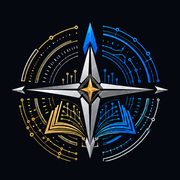
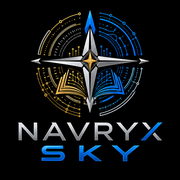
Єдине лого скрізь (іконки, заставка з анімацією, експорти), водяний знак на екрані й у PDF/відео

diff --git a/web/app.js b/web/app.js
@@ -1355,7 +1355,7 @@ setInterval(()=>{if(ws&&ws.readyState===1)ws.send('ping');},20000);
 document.addEventListener('visibilitychange',()=>{if(ws&&ws.readyState===1)ws.send(document.hidden?'hidden':'visible');});
 
 /* ---------- налаштування, теми, шари ---------- */
-const PREF=Object.assign({theme:'night',base:null,sound:false,ru:true,launch:true,zones:true},(()=>{try{return JSON.parse(localStorage.getItem('pref')||'{}');}catch(e){return {};}})());
+const PREF=Object.assign({theme:'night',base:null,sound:false,ru:true,launch:true,zones:true,wm:true},(()=>{try{return JSON.parse(localStorage.getItem('pref')||'{}');}catch(e){return {};}})());
 // темна тема за замовчуванням (02.11): збережене раніше «Авто» переводимо в «Ніч» один раз; свідомий вибір після цього не чіпаємо
 if(!PREF.darkV2){if(PREF.theme==='auto')PREF.theme='night';PREF.darkV2=1;try{localStorage.setItem('pref',JSON.stringify(PREF));}catch(e){}}
 const savePref=()=>{try{localStorage.setItem('pref',JSON.stringify(PREF));}catch(e){}};
@@ -1367,7 +1367,7 @@ function applyTheme(force){const th=effTheme();document.documentElement.dataset.
   const want=wantBase(th);if(force||want!==base)setBase(want);
   $('#st-theme-note').textContent=PREF.theme==='auto'?('Зараз: '+(th==='night'?'ніч':'день')+', перемикається само за сходом і заходом сонця над вашим домом.'):'';syncSettingsUI();}
 function syncSettingsUI(){document.querySelectorAll('.seg[data-pref]').forEach(g=>{const k=g.dataset.pref;const v=k==='mode'?(TAC?'tac':'norm'):k==='base'?base:k==='shelter'?String(SHELTER):PREF[k];g.querySelectorAll('button').forEach(b=>b.classList.toggle('on',b.dataset.v===String(v)));});
-  $('#st-3d').checked=tilt;$('#st-sys').checked=!!PREF.sys&&'Notification' in window&&Notification.permission==='granted';$('#st-ru').checked=!!PREF.ru;$('#st-launch').checked=!!PREF.launch;$('#st-zones').checked=!!PREF.zones;}
+  $('#st-3d').checked=tilt;$('#st-sys').checked=!!PREF.sys&&'Notification' in window&&Notification.permission==='granted';$('#st-ru').checked=!!PREF.ru;$('#st-launch').checked=!!PREF.launch;$('#st-zones').checked=!!PREF.zones;$('#st-wm').checked=PREF.wm!==false;document.body.classList.toggle('wm',PREF.wm!==false);}
 function applyLayers(){const vis=(ids,on)=>ids.forEach(i=>{if(map.getLayer(i))map.setLayoutProperty(i,'visibility',on?'visible':'none');});
   vis(['ru-glow','ru-dot','ru-t','hits'],PREF.ru);vis(['chains','lsites','lsites-t'],PREF.launch);vis(['zones','zones-t','avia','avia-z','avia-zl','avia-l'],PREF.zones);
   if(TAC)vis(['holo','holo-top','ra-glow'],false);
@@ -1472,6 +1472,7 @@ try{if(matchMedia('(display-mode: standalone)').matches||navigator.standalone)fe
 $('#st-ru').onchange=e=>{PREF.ru=e.target.checked;savePref();applyLayers();};
 $('#st-launch').onchange=e=>{PREF.launch=e.target.checked;savePref();applyLayers();};
 $('#st-zones').onchange=e=>{PREF.zones=e.target.checked;savePref();applyLayers();};
+$('#st-wm').onchange=e=>{PREF.wm=e.target.checked;savePref();syncSettingsUI();};
 $('#st-geo').onclick=()=>{$('#b-locate').click();};
 $('#st-pick').onclick=()=>{$('#settings').hidden=true;armHome();};
 $('#st-clear').onclick=()=>{if(FOLHOME)homeSaved=null;H0=null;localStorage.removeItem('H0');syncHome();toast('Дім прибрано');};

diff --git a/web/dexport.js b/web/dexport.js
@@ -59,13 +59,13 @@
 
   // спільне: шапка з лого
   function rr(g, x, y, w, h, r) { g.beginPath(); g.moveTo(x + r, y); g.arcTo(x + w, y, x + w, y + h, r); g.arcTo(x + w, y + h, x, y + h, r); g.arcTo(x, y + h, x, y, r); g.arcTo(x, y, x + w, y, r); g.closePath(); }
-  function brand(g, x, y, s) {// лого + NAVRYX SKY + слоган; s — висота лого
-    if (LOGO) g.drawImage(LOGO, x, y, s, s);
-    const tx = x + s + s * 0.18;
+  function brand(g, x, y, s) {// єдине лого (з назвою) + слоган; s — висота лого
+    if (LOGO) g.drawImage(LOGO, x, y, s * 1.3, s * 1.3);
     g.textAlign = 'left'; g.textBaseline = 'alphabetic';
-    g.font = '800 ' + Math.round(s * 0.36) + 'px ' + FONT; g.fillStyle = '#F2F5FA'; g.fillText('NAVRYX', tx, y + s * 0.5);
-    const w = g.measureText('NAVRYX ').width; g.fillStyle = BLUE; g.fillText('SKY', tx + w, y + s * 0.5);
-    g.font = '600 ' + Math.round(s * 0.17) + 'px ' + FONT; g.fillStyle = MUTE; g.fillText('Розумій, що відбувається в небі', tx, y + s * 0.8);
+    g.font = '600 ' + Math.round(s * 0.2) + 'px ' + FONT; g.fillStyle = MUTE; g.fillText('Розумій, що відбувається в небі', x + s * 1.45, y + s * 0.78);
+  }
+  function wmark(g, x, y, w, h) {// водяний знак на знімку мапи
+    if (!LOGO) return; const s = Math.round(Math.min(w, h) * 0.13); g.save(); g.globalAlpha = 0.6; g.drawImage(LOGO, x + 12, y + 12, s, s); g.restore();
   }
   function grad(g, x, y, w, h) { const l = g.createLinearGradient(x, 0, x + w, 0); l.addColorStop(0, GOLD); l.addColorStop(1, BLUE); g.fillStyle = l; g.fillRect(x, y, w, h); }
   function cover(g, src, x, y, w, h) {// map canvas → прямокутник з обрізанням по центру
@@ -97,7 +97,7 @@
       grad(g, M, 162, W - 2 * M, 3);
       // мапа
       const my = 190;
-      g.save(); rr(g, M, my, MW, MH, 22); g.clip(); cover(g, map.getCanvas(), M, my, MW, MH);
+      g.save(); rr(g, M, my, MW, MH, 22); g.clip(); cover(g, map.getCanvas(), M, my, MW, MH); wmark(g, M, my, MW, MH);
       g.fillStyle = 'rgba(0,0,0,.55)'; g.fillRect(M, my + MH - 30, MW, 30);
       g.font = '500 14px ' + FONT; g.fillStyle = 'rgba(255,255,255,.7)'; g.textAlign = 'left';
       g.fillText('© Esri, Maxar · © OpenStreetMap · OpenFreeMap · зона контролю: відкриті джерела', M + 14, my + MH - 10);
@@ -175,7 +175,7 @@
       const frame = (t) => {
         const f = Math.max(0, Math.min(1, (t - INTRO) / PLAY));
         g.fillStyle = '#070A10'; g.fillRect(0, 0, W, H);
-        g.drawImage(mc, 0, 0, mc.width, mc.height, 0, MY, W, MH);
+        g.drawImage(mc, 0, 0, mc.width, mc.height, 0, MY, W, MH); wmark(g, 0, MY, W, MH);
         // верх
         const tg = g.createLinearGradient(0, MY, 0, MY + 120); tg.addColorStop(0, '#070A10'); tg.addColorStop(1, 'rgba(7,10,16,0)'); g.fillStyle = tg; g.fillRect(0, MY, W, 120);
         brand(g, 48, 34, 96);

diff --git a/web/index.html b/web/index.html
@@ -16,9 +16,9 @@
 </head>
 <body>
 <div id="map"></div>
+<img id="wm" src="brand/logo-a.png" alt="" aria-hidden="true">
 <div id="intro">
-  <div class="radar"><i class="r1"></i><i class="sweep"></i><b class="bl b1"></b><b class="bl b2"></b><b class="bl b3"></b><img class="emb" src="brand/emblem.png" alt=""></div>
-  <div class="wm" aria-label="NAVRYX SKY"><div class="w1"><span>N</span><span>A</span><span>V</span><span>R</span><span>Y</span><span>X</span></div><div class="w2"><span>S</span><span>K</span><span>Y</span></div></div>
+  <div class="lg"><img src="brand/logo-a.png" alt="NAVRYX SKY"></div>
   <p class="slogan"><span class="s1">Розумій,</span> <span class="s2">що відбувається</span> <em>в&nbsp;небі</em></p>
   <div class="ld"><div class="bar"><i></i></div><small id="intro-st">Підключаюсь до джерел…</small></div>
 </div>
@@ -159,6 +159,7 @@
     <label class="sw"><input type="checkbox" id="st-ru"><span>Наші влучання по РФ за останню добу <small>(місце й об'єкт, за ASTRA та Генштабом ЗСУ)</small></span></label>
     <label class="sw"><input type="checkbox" id="st-launch"><span>Місця пусків і ланцюжок «звідки запущено»</span></label>
     <label class="sw"><input type="checkbox" id="st-zones"><span>КАБ і ворожа авіація</span></label>
+    <label class="sw"><input type="checkbox" id="st-wm"><span>Водяний знак лого на екрані (потрапляє в скріншоти)</span></label>
     <label class="sw"><input type="checkbox" id="st-saver"><span>Економія батареї (менше анімації й рельєфу)</span></label>
     <div id="st-real3d-row" hidden><label class="sw"><input type="checkbox" id="st-real3d"><span>Фотореалістичні 3D-моделі міст (Google)</span></label></div></section>
   <section id="st-widget-sec" hidden><h3>SKY на комп'ютері</h3>

diff --git a/web/sw.js b/web/sw.js
@@ -1,5 +1,5 @@
 // Кеш оболонки застосунку; дані про цілі завжди з мережі (застарілі цілі гірші за відсутні).
-const C='tryvoga-v300';const SHELL=['/','/index.html','/style.css','/app.js','/perf.js','/sound.js','/arsenal.js','/live.js','/widget.js','/cine.js','/fx.js','/icons.js','/models3d.js','/sprites/t-shahed.png','/sprites/t-jet.png','/sprites/t-cruise.png','/sprites/t-ballistic.png','/sprites/t-kab.png','/sprites/afld.png','/sprites/s-tu95.png','/sprites/s-tu160.png','/sprites/s-tu22.png','/sprites/s-mig31.png','/sprites/t-molniya.png','/manifest.webmanifest','/brand/emblem.png','/brand/icon-192.png','/brand/badge-96.png','/data/oblasts.geojson','/data/raions.geojson'];
+const C='tryvoga-v301';const SHELL=['/','/index.html','/style.css','/app.js','/perf.js','/sound.js','/arsenal.js','/live.js','/widget.js','/cine.js','/fx.js','/icons.js','/models3d.js','/sprites/t-shahed.png','/sprites/t-jet.png','/sprites/t-cruise.png','/sprites/t-ballistic.png','/sprites/t-kab.png','/sprites/afld.png','/brand/logo-a.png','/sprites/s-tu95.png','/sprites/s-tu160.png','/sprites/s-tu22.png','/sprites/s-mig31.png','/sprites/t-molniya.png','/manifest.webmanifest','/brand/emblem.png','/brand/icon-192.png','/brand/badge-96.png','/data/oblasts.geojson','/data/raions.geojson'];
 // Кешуємо кожен файл окремо й не валимо встановлення через один збій: addAll відхиляє ВСЕ при дублікаті чи 404,
 // і тоді служба не стартує зовсім (03.11: дубль icon-192 у списку → push не працював, «служба сповіщень не запустилась»).
 self.addEventListener('install',e=>{self.skipWaiting();e.waitUntil(caches.open(C).then(c=>Promise.all([...new Set(SHELL)].map(u=>c.add(u).catch(()=>{})))));});

diff --git a/web/style.css b/web/style.css
@@ -802,3 +802,15 @@ body.tac #b-3d{display:none!important}
 @keyframes embWave{0%{opacity:.8;transform:scale(.72)}100%{opacity:0;transform:scale(1.7)}}
 @keyframes embShine{0%{background-position:140% 0}60%,100%{background-position:-40% 0}}
 @media (prefers-reduced-motion:reduce){#intro .radar .emb{animation:embIn .6s both}#intro .radar::before,#intro .radar::after{display:none}}
+
+/* заставка: єдине лого */
+#intro .radar,#intro .wm{display:none!important}
+#intro .lg{position:relative;width:min(78vw,400px);aspect-ratio:1;animation:rdIn 1.1s cubic-bezier(.2,.8,.1,1) both}
+#intro .lg img{position:absolute;inset:0;width:100%;height:100%;object-fit:contain;animation:embBreath 3.2s ease-in-out 1.2s infinite}
+#intro .lg::before{content:"";position:absolute;inset:14% 14% 34%;border-radius:50%;border:2px solid rgba(110,170,255,.5);opacity:0;animation:embWave 2.6s ease-out 1.1s infinite}
+#intro .lg::after{content:"";position:absolute;inset:0;background:linear-gradient(115deg,transparent 38%,rgba(255,255,255,.7) 50%,transparent 62%) 140% 0/260% 100% no-repeat;
+  -webkit-mask:url(brand/logo-a.png) center/contain no-repeat;mask:url(brand/logo-a.png) center/contain no-repeat;mix-blend-mode:screen;animation:embShine 2.8s ease-in-out 1.4s infinite}
+@media (prefers-reduced-motion:reduce){#intro .lg img{animation:none}#intro .lg::before,#intro .lg::after{display:none}}
+/* водяний знак на екрані */
+#wm{position:fixed;left:max(10px,env(safe-area-inset-left));top:calc(env(safe-area-inset-top) + 6px);width:54px;height:54px;object-fit:contain;opacity:.55;pointer-events:none;z-index:4;display:none}
+body.wm #wm{display:block}
